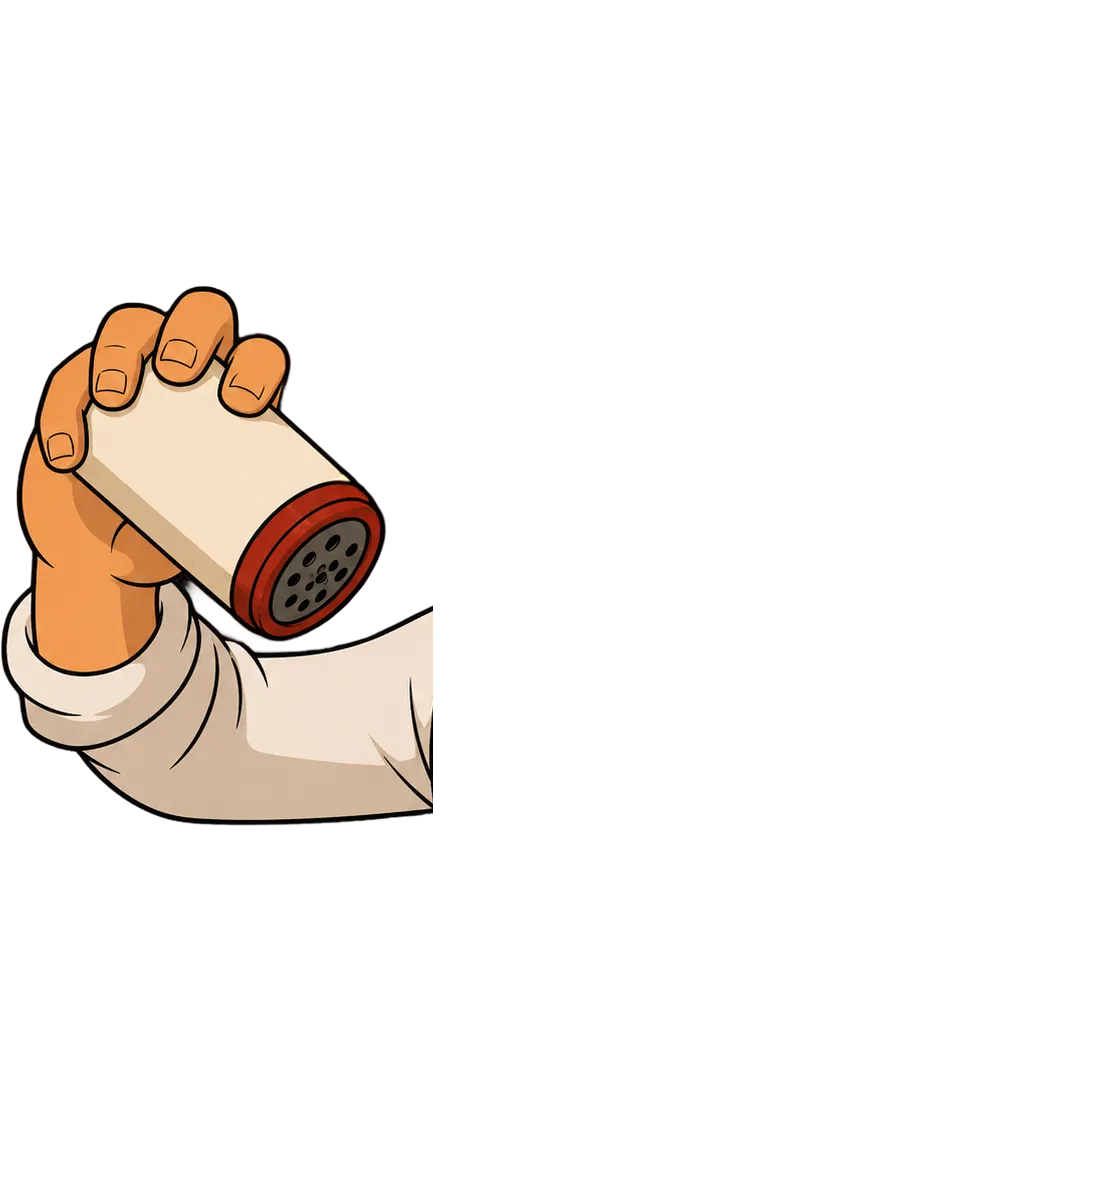
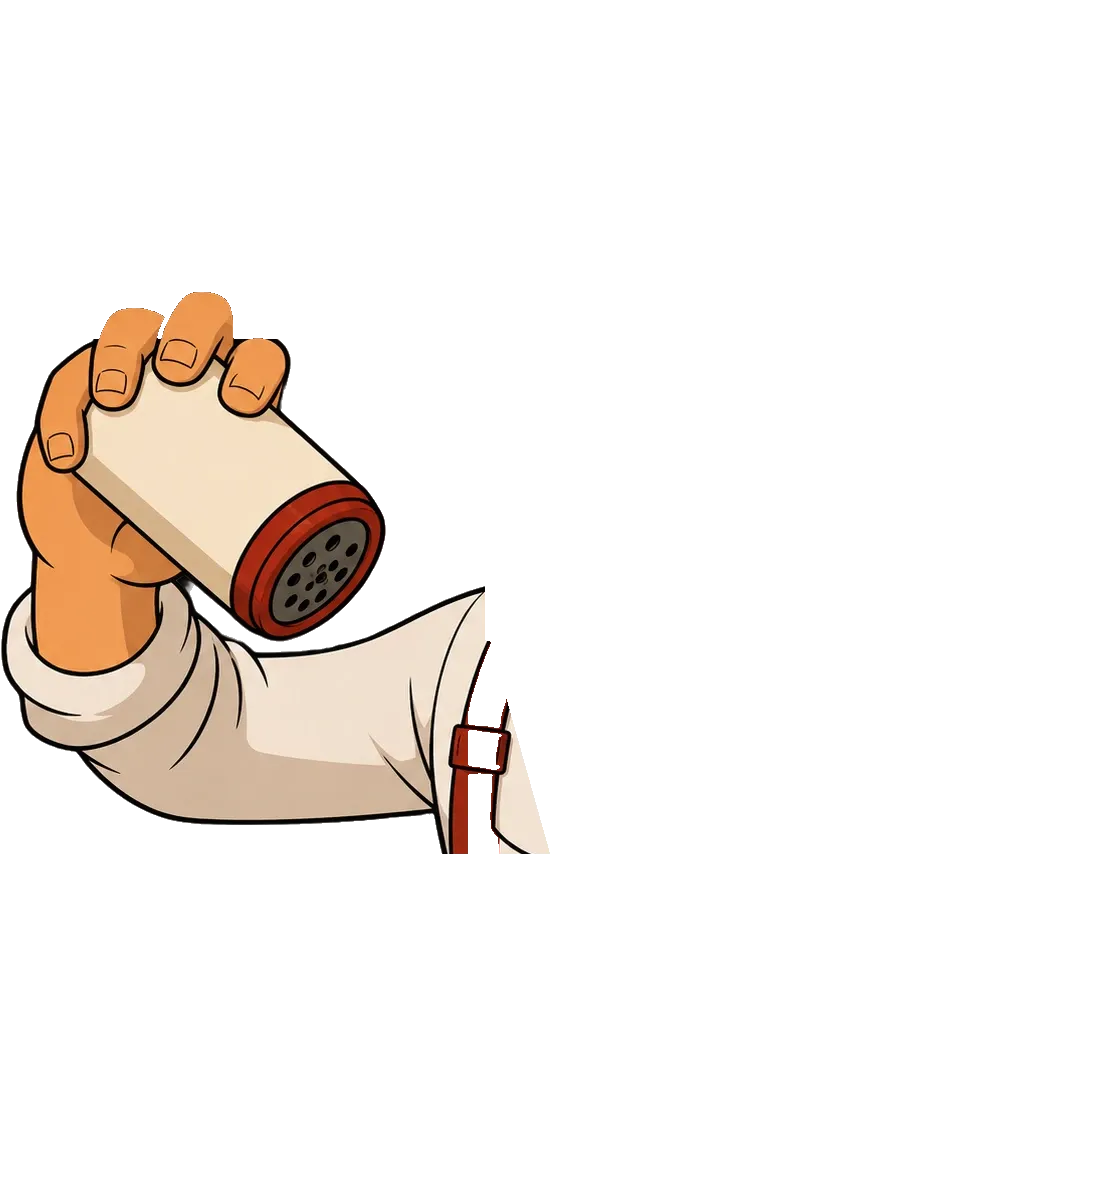
fix(mcschmutzo): salting chef — whole arm flicks about the shoulder (no cut) + clean eyes
The elbow-pivoted forearm layer left a very visible cut at the shoulder (the arm
detached from the body, revealing background) and the sclera carried grey
smudges from the pupil cut. Re-extract the WHOLE arm (hand+shaker+forearm+upper
arm to the shoulder socket) clean from the art with the base having exactly that
region removed, and flick it about the SHOULDER SOCKET — the socket point stays
put (arm stays attached, body stays covered) while the forearm+hand swing over
the background. Verified at exaggerated rotation: whole arm swings as one piece,
no cut / no bg reveal at the shoulder. Also flood-filled both eye sclera to clean
white (removed the dark spots / residue).

diff --git a/apps/mcschmutzo/src/components/SpecialMascot.svelte b/apps/mcschmutzo/src/components/SpecialMascot.svelte
@@ -52,27 +52,28 @@
 		mascotIdle(elapsed, cx, guyY, guyWidth, guyHeight, { sway: 0, breathe: 0.005, bob: 0.004 }),
 	);
 
-	// The whole hand+shaker+forearm (a CLEAN designer layer, only-hand.svg — the base has exactly this
-	// region removed) FLICKS about the elbow in a sprinkling rhythm; the salt releases on the down-flick
-	// so the arm and the falling salt read as one action. It's a full-frame sprite (same footprint as
-	// the base) rotated about the elbow, so there's no cut edge in the middle of the arm to seam.
+	// The WHOLE arm (hand+shaker+forearm+upper-arm to the shoulder — extracted clean from the art, the
+	// base has exactly that region removed) FLICKS about the SHOULDER SOCKET. Pivoting at the socket
+	// keeps the arm attached to the body (the socket point barely moves, so the body stays covered)
+	// while the forearm+hand swing out over the background — no cut at the shoulder. The salt releases
+	// on the down-flick so arm + falling salt read as one action.
 	const SHAKE_PERIOD = 560; // ms per flick
-	const SHAKE_AMP = 0.045; // rad (~2.6°) about the elbow — a gentle sprinkling flick
+	const SHAKE_AMP = 0.048; // rad (~2.7°) about the shoulder — visible but seamless flick
 	const shakeP = $derived((elapsed % SHAKE_PERIOD) / SHAKE_PERIOD);
 	const armAngle = $derived(SHAKE_AMP * Math.sin(2 * Math.PI * shakeP)); // + = flick down (cap dips)
 
 	const chefL = $derived(guyPose.x - guyPose.width / 2);
 	const chefT = $derived(guyPose.y - guyPose.height / 2);
-	// Elbow pivot (chef fractions) — where the forearm meets the upper arm.
-	const PIVX = 0.389;
-	const PIVY = 0.696;
+	// Shoulder-socket pivot (chef fractions) — where the arm meets the body.
+	const PIVX = 0.455;
+	const PIVY = 0.61;
 	const pivotX = $derived(chefL + PIVX * guyPose.width);
 	const pivotY = $derived(chefT + PIVY * guyPose.height);
 
-	// Salt spout = the shaker cap, carried around the elbow by the flick so the stream stays glued to
-	// the (moving) cap.
-	const CAP_DX = 0.29 - PIVX; // cap - elbow (chef-frac x)
-	const CAP_DY = 0.46 - PIVY; // cap - elbow (chef-frac y)
+	// Salt spout = the shaker cap, carried around the shoulder by the flick so the stream stays glued
+	// to the (moving) cap.
+	const CAP_DX = 0.33 - PIVX; // cap - shoulder (chef-frac x)
+	const CAP_DY = 0.5 - PIVY; // cap - shoulder (chef-frac y)
 	const saltTopX = $derived(
 		pivotX + (CAP_DX * guyPose.width) * Math.cos(armAngle) - (CAP_DY * guyPose.height) * Math.sin(armAngle),
 	);
